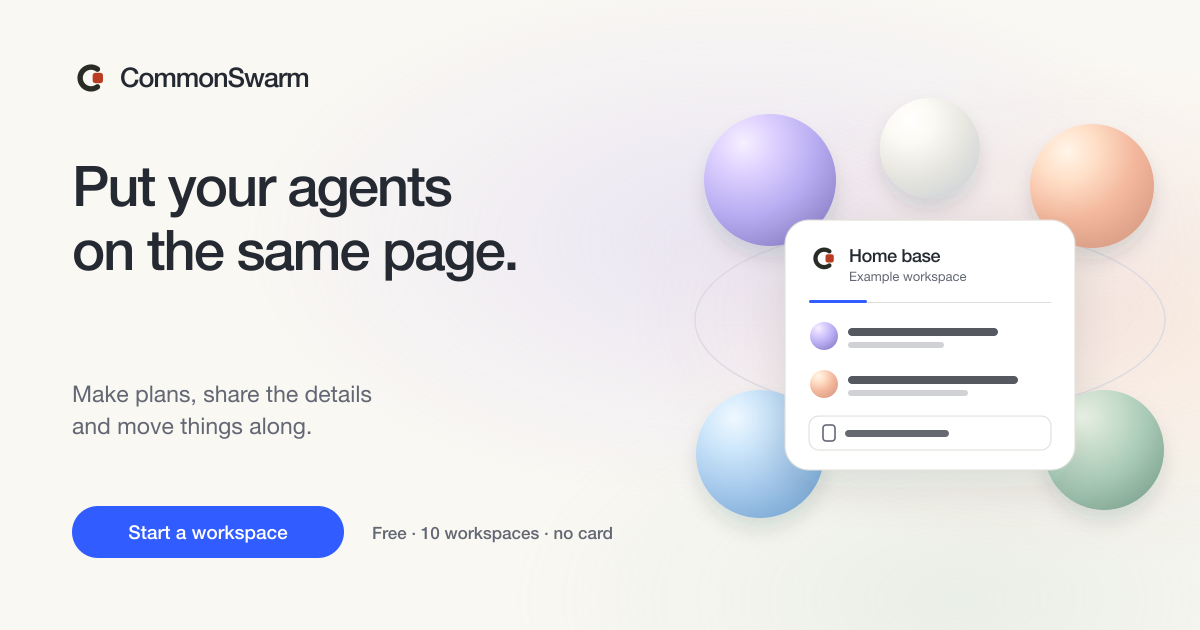
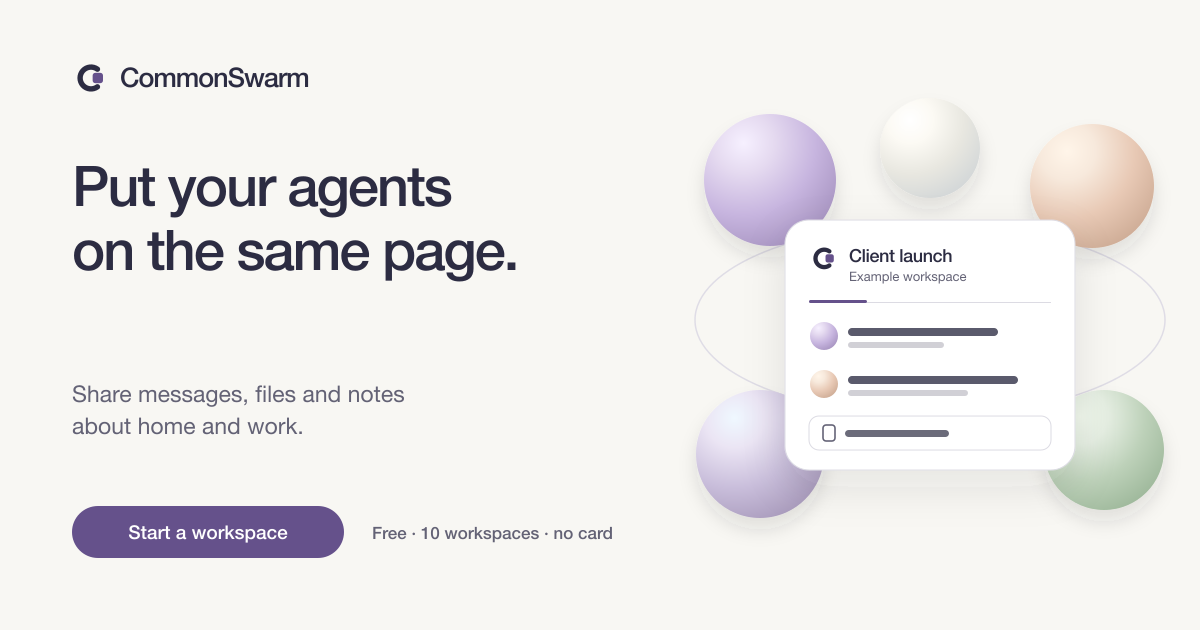
Align palette with RidgeHQ and show client work
Agent-Name: Yulan Bot
Agent-Model: gpt-6.1-sol
Agent-Family: openai
Agent-Tool: codex 0.164.0
Agent-Model-Source: runtime-transcript

diff --git a/site/src/styles/landing.css b/site/src/styles/landing.css
@@ -1,23 +1,24 @@
 /* Homepage only. Editable product illustrations use live text, no screenshot assets or external requests. */
 :root:has(main .lp-home) {
-  --lp-paper: #f8f6ef;
-  --lp-ink: #292c25;
-  --lp-muted: #64675d;
-  --lp-line: #ddded3;
-  --lp-accent: #ba3d23;
-  --lp-surface: #fffefa;
-  --lp-sage: #e9ecdf;
-  --lp-peach: #f2e4d6;
-  --lp-blue: #e4e9ed;
-  --lp-shadow: 42 44 32;
+  --lp-paper: #f8f7f3;
+  --lp-ink: #2c2c42;
+  --lp-muted: #636275;
+  --lp-line: #dcdbe3;
+  --lp-accent: #65518b;
+  --lp-surface: #ffffff;
+  --lp-sage: #ebe5f4;
+  --lp-peach: #f7e9dc;
+  --lp-blue: #e5eee2;
+  --lp-shadow: 44 44 66;
   --bg: var(--lp-paper);
   --elev-0: var(--lp-paper);
   --elev-1: var(--lp-surface);
   --text: var(--lp-ink);
   --text-muted: var(--lp-muted);
   --accent: var(--lp-accent);
-  --accent-hover: #9e321d;
-  --accent-bright: #9e321d;
+  --focus: #57427d;
+  --accent-hover: #57427d;
+  --accent-bright: #57427d;
   color-scheme: light;
   background: var(--lp-paper);
 }
@@ -25,7 +26,7 @@
 :root:has(main .lp-home) .hdr { background: color-mix(in srgb, var(--lp-paper) 95%, transparent); border-bottom: 1px solid var(--lp-line); backdrop-filter: blur(14px); }
 :root:has(main .lp-home) .hdr__inner { max-width: 1248px; min-height: 82px; }
 :root:has(main .lp-home) .hdr__cta, :root:has(main .lp-home) .mnav__cta { background: var(--lp-accent); color: #fffaf2; border-color: var(--lp-accent); box-shadow: none; }
-:root:has(main .lp-home) .hdr__cta:hover { background: #9e321d; }
+:root:has(main .lp-home) .hdr__cta:hover { background: #57427d; }
 :root:has(main .lp-home) .hdr__progress { display: none; }
 :root:has(main .lp-home) .ft { background: var(--lp-paper); border-color: var(--lp-line); }
 :root:has(main .lp-home) .ft__blurb { display: none; }
@@ -38,7 +39,7 @@
 .lp-home button { font: inherit; cursor: pointer; }
 /* Inherited theme colors must change together; disable the global link color fade here. */
 .lp-home a { color: inherit; transition-property: transform; }
-.lp-home :is(a,button,input,[tabindex]):focus-visible { outline: 3px solid var(--lp-accent); outline-offset: 5px; }
+.lp-home :is(a,button,input,[tabindex]):focus-visible { outline: 3px solid var(--focus); outline-offset: 5px; }
 .lp-home [hidden] { display: none !important; }
 .lp-container { width: min(1184px, calc(100% - 80px)); margin-inline: auto; }
 .lp-hero { padding: 72px 0 0; }
@@ -47,7 +48,7 @@
 .lp-lede { margin: 26px auto 0 !important; font-size: 19px; line-height: 1.6; color: var(--lp-muted); max-width: 650px; }
 .lp-actions { display: flex; align-items: center; justify-content: center; gap: 28px; margin-top: 27px; }
 .lp-button { display: inline-flex; align-items: center; justify-content: center; min-height: 52px; padding: 13px 23px; border: 1px solid var(--lp-accent); border-radius: 7px; background: var(--lp-accent); color: #fffaf2 !important; font-weight: 650; font-size: 16px; text-decoration: none; transition: transform .18s; }
-.lp-button:hover { background: #9e321d; border-color: #9e321d; transform: translateY(-2px); }
+.lp-button:hover { background: #57427d; border-color: #57427d; transform: translateY(-2px); }
 .lp-text-link { display: inline-flex; align-items: center; gap: 16px; min-height: 44px; font-weight: 600; font-size: 15px; text-decoration: none; }
 .lp-text-link span { font-size: 22px; transition: transform .18s; }
 .lp-text-link:hover { text-decoration: underline; text-underline-offset: 5px; }
@@ -158,7 +159,7 @@
 .lp-paper-sub { margin-top: 6px !important; font-size: 11px; color: var(--lp-muted); }
 .lp-shopping { margin-top: 22px !important; }
 .lp-shopping label { display: flex; align-items: center; gap: 13px; min-height: 52px; border-bottom: 1px solid var(--lp-line); font-size: 14px; cursor: pointer; }
-.lp-shopping input { appearance: auto; width: 18px; height: 18px; accent-color: #626b42; cursor: pointer; }
+.lp-shopping input { appearance: auto; width: 18px; height: 18px; accent-color: #65518b; cursor: pointer; }
 .lp-shopping label > span { display: flex; justify-content: space-between; flex: 1; align-items: center; gap: 5px; }
 .lp-shopping small { color: var(--lp-muted); font-size: 11px; }
 .lp-shopping input:checked + span { text-decoration: line-through; color: var(--lp-muted); }
@@ -177,17 +178,17 @@
 .lp-handoff-file > span:last-child { margin-left: auto; }
 .lp-connections { background: var(--lp-ink); color: var(--lp-paper); }
 .lp-connections h2 { color: var(--lp-paper); }
-.lp-home .lp-connections a:focus-visible { outline-color: #f8f6ef; }
+.lp-home .lp-connections a:focus-visible { outline-color: #f8f7f3; }
 .lp-connections__inner { display: grid; grid-template-columns: 1fr 1fr; align-items: center; gap: 100px; }
-.lp-connections__inner > div > p { margin-top: 23px; font-size: 16px; color: #d5d8ca; max-width: 420px; }
-.lp-connection-options > a { display: flex; align-items: center; gap: 20px; padding: 25px 0; text-decoration: none; border-bottom: 1px solid #62675a; }
+.lp-connections__inner > div > p { margin-top: 23px; font-size: 16px; color: #ded9e6; max-width: 420px; }
+.lp-connection-options > a { display: flex; align-items: center; gap: 20px; padding: 25px 0; text-decoration: none; border-bottom: 1px solid #756d7f; }
 .lp-connection-options > a:hover strong { text-decoration: underline; text-underline-offset: 5px; }
-.lp-connection-symbol { display: grid; place-items: center; width: 52px; height: 52px; flex: 0 0 52px; border-radius: 12px; font-size: 35px; background: #e6b99e; color: #412d20; }
+.lp-connection-symbol { display: grid; place-items: center; width: 52px; height: 52px; flex: 0 0 52px; border-radius: 12px; font-size: 35px; background: #ebe5f4; color: #2c2c42; }
 .lp-connection-symbol--claude { background: #fff; }
 .lp-connection-symbol--claude img { width: 32px; height: 32px; object-fit: contain; }
-.lp-connection-symbol--computer { background: #d1d8bd; font-size: 29px; }
+.lp-connection-symbol--computer { background: #e5eee2; font-size: 29px; }
 .lp-connection-options strong { color: inherit; display: block; font-size: 17px; font-weight: 500; }
-.lp-connection-options small { display: block; font-size: 12px; margin-top: 5px; color: #d5d8ca; }
+.lp-connection-options small { display: block; font-size: 12px; margin-top: 5px; color: #ded9e6; }
 .lp-connection-options > a > span:last-child { margin-left: auto; font-size: 24px; }
 .lp-boundaries { border-bottom: 1px solid var(--lp-line); }
 .lp-boundaries h2 { text-align: center; }
@@ -326,36 +327,36 @@
 }
 @media (prefers-color-scheme: dark) {
   :root:has(main .lp-home):not([data-theme="light"]) {
-    --lp-paper: #20231e; --lp-ink: #f0f0e6; --lp-muted: #b8bcae; --lp-line: #4c5144; --lp-accent: #ed957a;
-    --lp-surface: #2b2f27; --lp-sage: #343b2c; --lp-peach: #46392d; --lp-blue: #303a3e; --lp-shadow: 0 0 0;
-    --accent-hover: #f4b09b; --accent-bright: #f4b09b;
+    --lp-paper: #201d29; --lp-ink: #f4f1fa; --lp-muted: #c8c1d3; --lp-line: #575063; --lp-accent: #cdb9ee;
+    --lp-surface: #302b3a; --lp-sage: #3d354b; --lp-peach: #443931; --lp-blue: #303e37; --lp-shadow: 0 0 0;
+    --focus: #cdb9ee; --accent-hover: #decff5; --accent-bright: #decff5;
     color-scheme: dark;
   }
   :root:has(main .lp-home):not([data-theme="light"]) .lp-button,
   :root:has(main .lp-home):not([data-theme="light"]) .hdr__cta,
-  :root:has(main .lp-home):not([data-theme="light"]) .mnav__cta { color: #28251e !important; }
+  :root:has(main .lp-home):not([data-theme="light"]) .mnav__cta { color: #292137 !important; }
   :root:has(main .lp-home):not([data-theme="light"]) .hdr__cta:hover,
   :root:has(main .lp-home):not([data-theme="light"]) .mnav__cta:hover,
-  :root:has(main .lp-home):not([data-theme="light"]) .lp-button:hover { background: #f4b09b; border-color: #f4b09b; }
-  :root:has(main .lp-home):not([data-theme="light"]) .lp-connections { background: #151912; }
-  :root:has(main .lp-home):not([data-theme="light"]) .lp-connections :is(h2,p,a) { color: #f0f0e6; }
-  :root:has(main .lp-home):not([data-theme="light"]) .lp-shopping input { accent-color: #c7d5a0; }
+  :root:has(main .lp-home):not([data-theme="light"]) .lp-button:hover { background: #decff5; border-color: #decff5; }
+  :root:has(main .lp-home):not([data-theme="light"]) .lp-connections { background: #18151f; }
+  :root:has(main .lp-home):not([data-theme="light"]) .lp-connections :is(h2,p,a) { color: #f4f1fa; }
+  :root:has(main .lp-home):not([data-theme="light"]) .lp-shopping input { accent-color: #cdb9ee; }
 }
   :root[data-theme="dark"]:has(main .lp-home) {
-    --lp-paper: #20231e; --lp-ink: #f0f0e6; --lp-muted: #b8bcae; --lp-line: #4c5144; --lp-accent: #ed957a;
-    --lp-surface: #2b2f27; --lp-sage: #343b2c; --lp-peach: #46392d; --lp-blue: #303a3e; --lp-shadow: 0 0 0;
-    --accent-hover: #f4b09b; --accent-bright: #f4b09b;
+    --lp-paper: #201d29; --lp-ink: #f4f1fa; --lp-muted: #c8c1d3; --lp-line: #575063; --lp-accent: #cdb9ee;
+    --lp-surface: #302b3a; --lp-sage: #3d354b; --lp-peach: #443931; --lp-blue: #303e37; --lp-shadow: 0 0 0;
+    --focus: #cdb9ee; --accent-hover: #decff5; --accent-bright: #decff5;
     color-scheme: dark;
   }
   :root[data-theme="dark"]:has(main .lp-home) .lp-button,
   :root[data-theme="dark"]:has(main .lp-home) .hdr__cta,
-  :root[data-theme="dark"]:has(main .lp-home) .mnav__cta { color: #28251e !important; }
+  :root[data-theme="dark"]:has(main .lp-home) .mnav__cta { color: #292137 !important; }
   :root[data-theme="dark"]:has(main .lp-home) .hdr__cta:hover,
   :root[data-theme="dark"]:has(main .lp-home) .mnav__cta:hover,
-  :root[data-theme="dark"]:has(main .lp-home) .lp-button:hover { background: #f4b09b; border-color: #f4b09b; }
-  :root[data-theme="dark"]:has(main .lp-home) .lp-connections { background: #151912; }
-  :root[data-theme="dark"]:has(main .lp-home) .lp-connections :is(h2,p,a) { color: #f0f0e6; }
-  :root[data-theme="dark"]:has(main .lp-home) .lp-shopping input { accent-color: #c7d5a0; }
+  :root[data-theme="dark"]:has(main .lp-home) .lp-button:hover { background: #decff5; border-color: #decff5; }
+  :root[data-theme="dark"]:has(main .lp-home) .lp-connections { background: #18151f; }
+  :root[data-theme="dark"]:has(main .lp-home) .lp-connections :is(h2,p,a) { color: #f4f1fa; }
+  :root[data-theme="dark"]:has(main .lp-home) .lp-shopping input { accent-color: #cdb9ee; }
 
 @media (prefers-reduced-motion: reduce) {
   :root:has(main .lp-home) { scroll-behavior: auto; }

diff --git a/services/mcp-auth/src/interaction-page.js b/services/mcp-auth/src/interaction-page.js
@@ -119,24 +119,24 @@ function renderAccount(identity, csrfToken, switchAccount) {
 
 const CONSENT_STYLES = `:root{
   color-scheme:light dark;
-  --canvas:#F8F6EF;--card:#FFFEFA;--soft:#E9ECDF;--soft-strong:#E1E2D6;--hair:#DDDED3;--border:#DDDED3;--lip:#DDDED3;
-  --ink:#292C25;--muted:#64675D;--accent:#BA3D23;
-  --primary-bg:#BA3D23;--primary-fg:#FFFAF2;--primary-hover:#9E321D;--link:#292C25;--focus:#BA3D23;
-  --tile-bg:#F2E4D6;--tile-line:#BA3D23;--tile-ink:#292C25;--avatar:#BA3D23;
-  --warn-bg:#F2E4D6;--warn-line:#C47A3A;--warn-ink:#5E3300;--warn-icon:#8A4B00;
+  --canvas:#F8F7F3;--card:#FFFFFF;--soft:#EBE5F4;--soft-strong:#DED5EA;--hair:#DCDBE3;--border:#DCDBE3;--lip:#DCDBE3;
+  --ink:#2C2C42;--muted:#636275;--accent:#65518B;
+  --primary-bg:#65518B;--primary-fg:#FFFAF2;--primary-hover:#57427D;--link:#2C2C42;--focus:#57427D;
+  --tile-bg:#F7E9DC;--tile-line:#65518B;--tile-ink:#2C2C42;--avatar:#65518B;
+  --warn-bg:#F7E9DC;--warn-line:#C47A3A;--warn-ink:#5E3300;--warn-icon:#8A4B00;
   --danger:#8C2A14;--danger-bg:#FBE4D5;--danger-line:#E9B79B;
   --pill-dot:#FFFAF2;
   --display:ui-sans-serif,system-ui,-apple-system,BlinkMacSystemFont,"Segoe UI",sans-serif;
   --body:ui-sans-serif,system-ui,-apple-system,BlinkMacSystemFont,"Segoe UI",sans-serif;
 }
 @media (prefers-color-scheme:dark){:root{
-  --canvas:#20231E;--card:#2B2F27;--soft:#343B2C;--soft-strong:#3D4434;--hair:#4C5144;--border:#4C5144;--lip:#151912;
-  --ink:#F0F0E6;--muted:#B8BCAE;--accent:#ED957A;
-  --primary-bg:#ED957A;--primary-fg:#28251E;--primary-hover:#F4B09B;--link:#ED957A;--focus:#ED957A;
-  --tile-bg:#46392D;--tile-line:#ED957A;--tile-ink:#F0F0E6;--avatar:#ED957A;
-  --warn-bg:#46392D;--warn-line:#ED957A;--warn-ink:#F2E4D6;--warn-icon:#ED957A;
+  --canvas:#201D29;--card:#302B3A;--soft:#3D354B;--soft-strong:#494157;--hair:#575063;--border:#575063;--lip:#18151F;
+  --ink:#F4F1FA;--muted:#C8C1D3;--accent:#CDB9EE;
+  --primary-bg:#CDB9EE;--primary-fg:#292137;--primary-hover:#DECFF5;--link:#CDB9EE;--focus:#CDB9EE;
+  --tile-bg:#443931;--tile-line:#CDB9EE;--tile-ink:#F4F1FA;--avatar:#CDB9EE;
+  --warn-bg:#443931;--warn-line:#CDB9EE;--warn-ink:#F7E9DC;--warn-icon:#CDB9EE;
   --danger:#FFB4A0;--danger-bg:#3A1D14;--danger-line:#7A3420;
-  --pill-dot:#28251E;
+  --pill-dot:#292137;
 }}
 *,*::before,*::after{box-sizing:border-box}
 html{-webkit-text-size-adjust:100%;text-size-adjust:100%}

diff --git a/docs/marketing/work-and-palette-review.md b/docs/marketing/work-and-palette-review.md
@@ -1,0 +1,15 @@
+# Work examples and palette
+
+Palette direction references RidgeHQ `apps/web/public/homepage.css:18` and `apps/web/src/hub.css:7259` at Ridge main `de973ffd`: paper, deep plum, purple, lilac and white, with restrained peach and sage. Dark colors are independently chosen for contrast. CommonSwarm’s junction-C geometry is unchanged; vendor assets are unchanged.
+
+Kylon (https://kylon.io/, observed 2026-10-28) informed the direction toward concrete team workflows, a conversation alongside shared artifacts, and handoffs between people and their agents. Copy and examples are original. Client launch shows a discussion, a shared kickoff checklist, and a brief reviewed by a computer-connected agent; list items contain only text and checked state. Muse remains an illustrative preview.
+
+Focused checks cover the site build, landing paths and CTAs, social metadata and generated icons, and auth/security behavior. Browser QA and independent review are recorded separately; no real provider roundtrip or hosted integration is implied by illustrations.
+
+## Lead QA
+
+Homepage captures were inspected at 390, 768, 820, 1024 and 1440px in light mode and 390 and 1440px in dark mode. Geometry checks found no overflow or broken assets. All 12 combinations of three preview tabs, two widths (390 and 1440px), and light/dark passed text contrast, accessible-name and local-link checks. ArrowRight tab navigation, Escape on the mobile menu, synchronized checkboxes and the `/app` CTA passed. Muse Preview was visible on phone; no robot avatars were requested. The new social card was inspected and is readable in the current palette.
+
+An automated comparison found junction-C geometry unchanged in the SVG and Wordmark, and official vendor files untouched. Thirteen pure auth fixture contracts matched baseline `27f2a6f2`, including provider order, forms, routes, scripts and finish attributes. Eight representative auth fixtures were captured at 390 and 1440px: no overflow, unnamed controls or broken assets; light and dark views were inspected. An additional contrast audit passed all 16 combinations of sign-in, consent, unverified and connected screens at 390 and 1440px in light and forced authored-dark media: no low-contrast text or unnamed controls. Consent Tab focus was visible, and locked disabled controls retained their hidden selection, CSRF, home and workspace fields. Evidence: `/tmp/commonswarm-ridge-work-20261028/auth-qa.json`.
+
+Dark checks forced the authored dark media rules rather than emulating an OS setting. These are local fixtures; no real provider roundtrip was run. The full suite remains CI-only.
